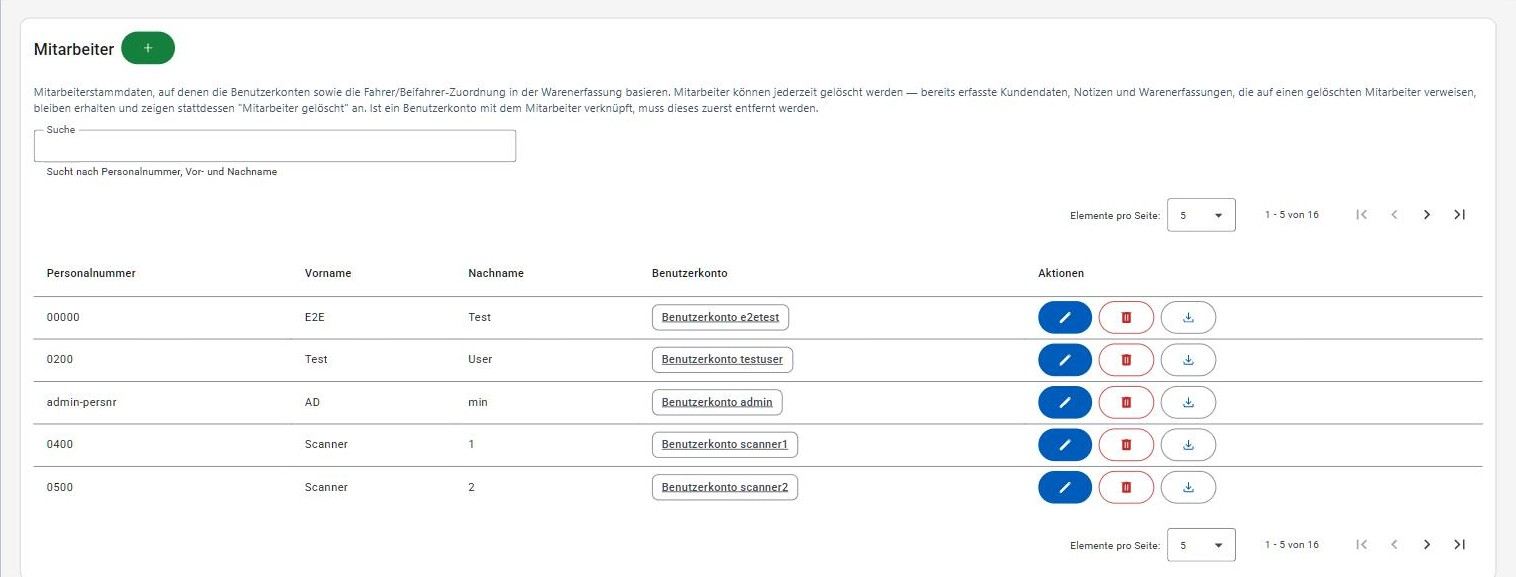
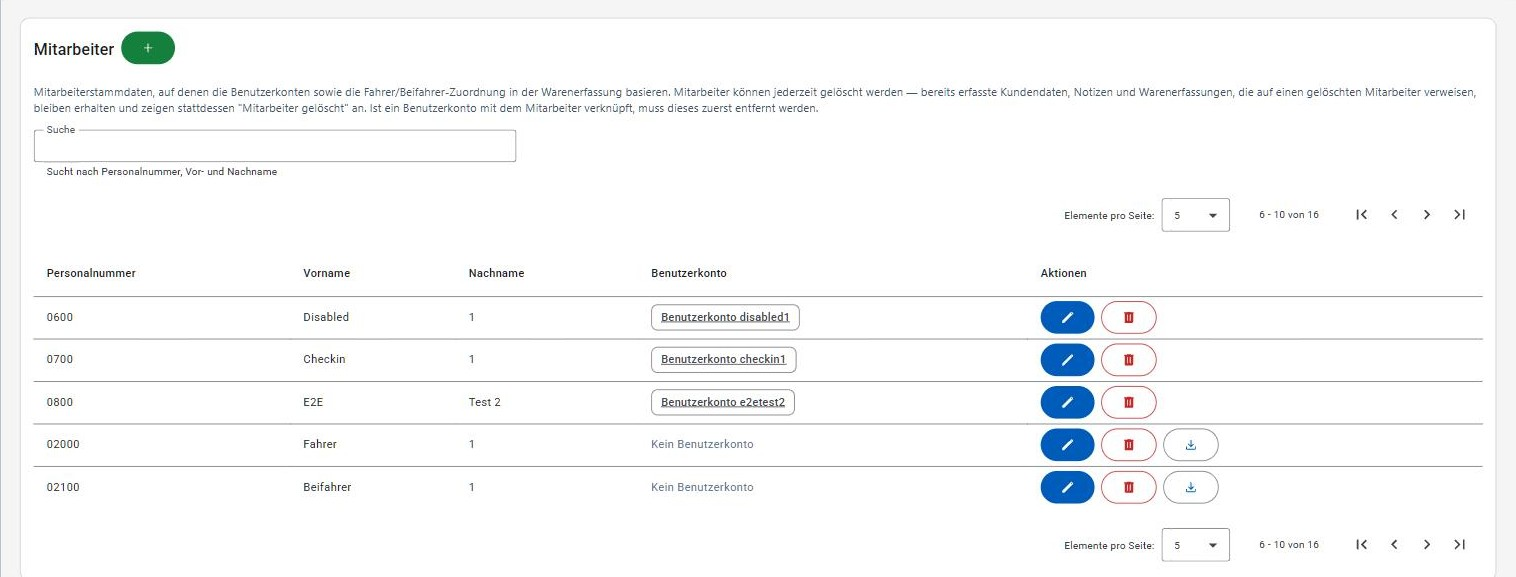
fix(employee): refuse the export when a user account is already linked
An employee referenced by a users row already has a complete GDPR takeout via
that account's own export (UserExportService's master data already includes
the linked employee's personnel number and name) - offering a second, strictly
less complete PDF here would leave two documents for the same person instead
of one. EmployeeExportService now refuses (409) that case, the export button
is hidden in the Mitarbeiter table for it, and docs/screenshot are updated to
match.

diff --git a/backend/src/main/kotlin/at/wrk/tafel/admin/backend/modules/base/employee/internal/EmployeeExportService.kt b/backend/src/main/kotlin/at/wrk/tafel/admin/backend/modules/base/employee/internal/EmployeeExportService.kt
@@ -5,10 +5,12 @@ import at.wrk.tafel.admin.backend.common.pdf.PDFService
 import at.wrk.tafel.admin.backend.database.common.audit.AuditLogWriter
 import at.wrk.tafel.admin.backend.database.common.audit.AuditOperation
 import at.wrk.tafel.admin.backend.database.common.audit.AuditScope
+import at.wrk.tafel.admin.backend.database.model.auth.UserRepository
 import at.wrk.tafel.admin.backend.database.model.base.EmployeeEntity
 import at.wrk.tafel.admin.backend.database.model.base.EmployeeRepository
 import at.wrk.tafel.admin.backend.modules.base.employee.EmployeeExportField
 import at.wrk.tafel.admin.backend.modules.base.employee.EmployeeExportPdfData
+import at.wrk.tafel.admin.backend.modules.base.exception.ConflictException
 import org.apache.commons.io.IOUtils
 import org.apache.commons.lang3.StringUtils
 import org.springframework.data.repository.findByIdOrNull
@@ -27,11 +29,17 @@ import java.time.format.DateTimeFormatter
  * Mitarbeiter settings screen, behind `SETTINGS` rather than `USER_MANAGEMENT` - there is no
  * self-service angle, since such an employee has no account of their own to authenticate with.
  *
+ * Deliberately refuses an employee a `users` row already references: that account's own export
+ * already carries this employee's personnel number and name as part of its master data
+ * (`UserExportService.buildMasterData`), so a person is meant to have exactly one takeout document,
+ * not a second, less complete one alongside it.
+ *
  * Stores nothing - the PDF is built on request and never written to disk or a table.
  */
 @Service
 class EmployeeExportService(
     private val employeeRepository: EmployeeRepository,
+    private val userRepository: UserRepository,
     private val auditLogWriter: AuditLogWriter,
     private val pdfService: PDFService,
     private val clock: Clock,
@@ -51,6 +59,9 @@ class EmployeeExportService(
     @Transactional
     fun exportEmployeeById(employeeId: Long): EmployeeExportFileResult? {
         val employeeEntity = employeeRepository.findByIdOrNull(employeeId) ?: return null
+        if (userRepository.existsByEmployeeId(employeeId)) {
+            throw ConflictException("Mitarbeiter hat ein Benutzerkonto - Datenexport erfolgt über das Benutzerkonto!")
+        }
         recordExportRead(employeeEntity)
 
         val data = EmployeeExportPdfData(

diff --git a/frontend/src/main/webapp/src/app/modules/settings/views/employees/settings-employees.component.html b/frontend/src/main/webapp/src/app/modules/settings/views/employees/settings-employees.component.html
@@ -133,10 +133,12 @@
                     (click)="deleteEmployee(employee)" [attr.aria-label]="'Mitarbeiter ' + employee.firstname + ' ' + employee.lastname + ' löschen'">
               <mat-icon svgIcon="delete"></mat-icon>
             </button>
-            <button matButton="outlined" class="ml-2" [attr.testid]="'exportEmployeeButton-' + i" matTooltip="Daten exportieren (PDF)"
-                    (click)="exportEmployee(employee)" [attr.aria-label]="'Daten von Mitarbeiter ' + employee.firstname + ' ' + employee.lastname + ' exportieren'">
-              <mat-icon svgIcon="download"></mat-icon>
-            </button>
+            @if (!employee.userAccount) {
+              <button matButton="outlined" class="ml-2" [attr.testid]="'exportEmployeeButton-' + i" matTooltip="Daten exportieren (PDF)"
+                      (click)="exportEmployee(employee)" [attr.aria-label]="'Daten von Mitarbeiter ' + employee.firstname + ' ' + employee.lastname + ' exportieren'">
+                <mat-icon svgIcon="download"></mat-icon>
+              </button>
+            }
           }
         </td>
       </ng-container>
@@ -227,10 +229,12 @@
                         (click)="deleteEmployee(employee)" [attr.aria-label]="'Mitarbeiter ' + employee.firstname + ' ' + employee.lastname + ' löschen'">
                   <mat-icon svgIcon="delete"></mat-icon>
                 </button>
-                <button matButton="outlined" [attr.testid]="'exportEmployeeButtonMobile-' + i" matTooltip="Daten exportieren (PDF)"
-                        (click)="exportEmployee(employee)" [attr.aria-label]="'Daten von Mitarbeiter ' + employee.firstname + ' ' + employee.lastname + ' exportieren'">
-                  <mat-icon svgIcon="download"></mat-icon>
-                </button>
+                @if (!employee.userAccount) {
+                  <button matButton="outlined" [attr.testid]="'exportEmployeeButtonMobile-' + i" matTooltip="Daten exportieren (PDF)"
+                          (click)="exportEmployee(employee)" [attr.aria-label]="'Daten von Mitarbeiter ' + employee.firstname + ' ' + employee.lastname + ' exportieren'">
+                    <mat-icon svgIcon="download"></mat-icon>
+                  </button>
+                }
               }
             </mat-card-actions>
           </mat-card>

diff --git a/backend/src/test/kotlin/at/wrk/tafel/admin/backend/modules/base/employee/internal/EmployeeExportServiceTest.kt b/backend/src/test/kotlin/at/wrk/tafel/admin/backend/modules/base/employee/internal/EmployeeExportServiceTest.kt
@@ -3,8 +3,10 @@ package at.wrk.tafel.admin.backend.modules.base.employee.internal
 import at.wrk.tafel.admin.backend.common.pdf.PDFService
 import at.wrk.tafel.admin.backend.database.common.audit.AuditLogWriter
 import at.wrk.tafel.admin.backend.database.common.audit.AuditOperation
+import at.wrk.tafel.admin.backend.database.model.auth.UserRepository
 import at.wrk.tafel.admin.backend.database.model.base.EmployeeEntity
 import at.wrk.tafel.admin.backend.database.model.base.EmployeeRepository
+import at.wrk.tafel.admin.backend.modules.base.exception.ConflictException
 import io.mockk.every
 import io.mockk.impl.annotations.InjectMockKs
 import io.mockk.impl.annotations.RelaxedMockK
@@ -13,6 +15,7 @@ import io.mockk.slot
 import io.mockk.verify
 import org.assertj.core.api.Assertions.assertThat
 import org.junit.jupiter.api.Test
+import org.junit.jupiter.api.assertThrows
 import org.junit.jupiter.api.extension.ExtendWith
 import org.springframework.data.repository.findByIdOrNull
 import java.time.Clock
@@ -25,6 +28,9 @@ internal class EmployeeExportServiceTest {
 
     @RelaxedMockK
     private lateinit var employeeRepository: EmployeeRepository
+
+    @RelaxedMockK
+    private lateinit var userRepository: UserRepository
 
     @RelaxedMockK
     private lateinit var auditLogWriter: AuditLogWriter
@@ -68,6 +74,18 @@ internal class EmployeeExportServiceTest {
         val result = service.exportEmployeeById(999)
 
         assertThat(result).isNull()
+        verify(exactly = 0) { auditLogWriter.record(any()) }
+    }
+
+    @Test
+    fun `export employee by id - refuses when a user account is linked`() {
+        val employeeEntity = EmployeeEntity(personnelNumber = "00001", firstname = "Max", lastname = "Mustermann").apply { id = 7 }
+        every { employeeRepository.findByIdOrNull(7) } returns employeeEntity
+        every { userRepository.existsByEmployeeId(7) } returns true
+
+        val exception = assertThrows<ConflictException> { service.exportEmployeeById(7) }
+
+        assertThat(exception.body.detail).isEqualTo("Mitarbeiter hat ein Benutzerkonto - Datenexport erfolgt über das Benutzerkonto!")
         verify(exactly = 0) { auditLogWriter.record(any()) }
     }
 }

diff --git a/frontend/src/main/webapp/src/app/modules/settings/views/employees/settings-employees.component.spec.ts b/frontend/src/main/webapp/src/app/modules/settings/views/employees/settings-employees.component.spec.ts
@@ -322,4 +322,15 @@ describe('SettingsEmployeesComponent', () => {
     expect(fileHelperMock.downloadFile).not.toHaveBeenCalled();
     expect(toastrMock.error).toHaveBeenCalledWith('Datenexport fehlgeschlagen!');
   });
+
+  // testEmployee1 has a linked user account (whose own export already carries this employee's
+  // personnel number/name), testEmployee2 does not - only the latter is meant to offer this button.
+  it('only offers the export button for an employee with no linked user account', () => {
+    const fixture = TestBed.createComponent(SettingsEmployeesComponent);
+    fixture.detectChanges();
+    const element: HTMLElement = fixture.nativeElement;
+
+    expect(element.querySelector('[testid="exportEmployeeButton-0"]')).toBeNull();
+    expect(element.querySelector('[testid="exportEmployeeButton-1"]')).not.toBeNull();
+  });
 });

diff --git a/frontend/src/main/webapp/cypress/e2e/settings-employees.cy.ts b/frontend/src/main/webapp/cypress/e2e/settings-employees.cy.ts
@@ -268,6 +268,15 @@ describe('Settings - Employees', () => {
     cy.byTestId('audit-entry-0-entityType').should('contain.text', 'Mitarbeiter');
   });
 
+  // An employee with a linked user account already has a complete export via that account's own
+  // detail page (username, permissions, login history *and* this employee's personnel number/name)
+  // - a second, less complete export here would be a duplicate document for the same person.
+  it('does not offer the export button for an employee with a linked user account', () => {
+    cy.byTestId('employeeSearchInput').type('00000');
+    cy.byTestId('employees-row-0').should('contain.text', '00000');
+    cy.byTestId('exportEmployeeButton-0').should('not.exist');
+  });
+
   it('renders as a card list on phone and stays usable', () => {
     cy.viewport(PHONE_VIEWPORT);
     cy.reload();

diff --git a/docs/userguide/einstellungen.md b/docs/userguide/einstellungen.md
@@ -178,4 +178,4 @@ Beim Anlegen sind Personalnummer, Vorname und Nachname Pflichtfelder (max. 50 Ze
 
 ![Mitarbeiter löschen](images/einstellungen-mitarbeiter-loeschen.jpg)
 
-Über den Download-Button lässt sich pro Mitarbeiter eine DSGVO-Datenauskunft (Art. 15/20) als PDF-Datei herunterladen – Personalnummer, Name und Anlagedatum. Das ist der einzige Auskunftsweg für Mitarbeiter ohne eigenes Benutzerkonto (z. B. reine Fahrer): sie haben kein Konto, über das sie sich selbst anmelden könnten, und die [Benutzer-Detailseite](benutzer.md) mit ihrem eigenen Export-Button existiert nur für Mitarbeiter mit Benutzerkonto.
+Über den Download-Button lässt sich pro Mitarbeiter eine DSGVO-Datenauskunft (Art. 15/20) als PDF-Datei herunterladen – Personalnummer, Name und Anlagedatum. Dieser Button erscheint nur bei Mitarbeitern ohne Benutzerkonto (z. B. reinen Fahrern): sie haben kein Konto, über das sie sich selbst anmelden könnten, und sind daher sonst über keinen Weg auskunftsfähig. Ist ein Benutzerkonto verknüpft, entfällt der Button hier - die Auskunft zu diesem Mitarbeiter ist dann bereits vollständig über den Export auf der [Benutzer-Detailseite](benutzer.md) verfügbar (der auch die verknüpfte Personalnummer und den Namen enthält), sodass hier kein zweites, unvollständiges Dokument für dieselbe Person entstehen soll.

diff --git a/docs/architecture/gdpr-compliance.md b/docs/architecture/gdpr-compliance.md
@@ -430,6 +430,12 @@ G5's and G12's exports are - even though `EmployeeEntity` writes themselves are 
 behind `SETTINGS` rather than `USER_MANAGEMENT` - the permission `EmployeeController` itself already
 requires, since there is no self-service angle for an employee with no account of their own.
 
+Refuses (409) an employee a `users` row already references - one person is meant to have exactly one
+takeout document, and `UserExportService`'s own master data already carries the linked employee's
+personnel number and name, so a second, less complete PDF here would be a duplicate rather than a
+second useful export. The frontend hides the button for exactly that case, and the linked account's
+own detail page is where the complete export for that person already lives.
+
 What remains open: same as G5/G12, `audit_log` entries about the employee are excluded from the
 export. Settled, not open, same as G12: this export is master data about the employee themselves
 only - it does not follow the reverse references above (issuer/author/driver) back into the

diff --git a/docs/architecture/gdpr-data-takeout-plan.md b/docs/architecture/gdpr-data-takeout-plan.md
@@ -105,6 +105,11 @@ is no self-service angle for someone who has no account to authenticate with in 
 Master data only - personnel number, name, created date - since that is the entirety of what an
 `EmployeeEntity` holds on its own.
 
+One person, one export: since a `users` row's own export already carries its linked employee's
+personnel number and name, `EmployeeExportService` refuses (409) an employee a `users` row
+references, and the frontend hides the button for that case - otherwise a person with an account
+would end up with two takeout documents, one of them a strict subset of the other.
+
 ## 4. Open questions
 
 Not blocking on the design above, but each one changes what "smallest useful step" means once an
